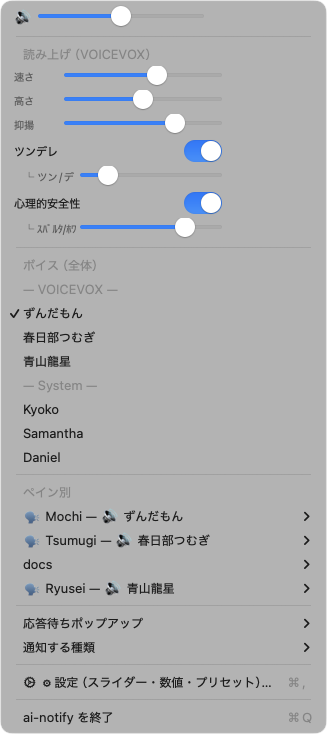
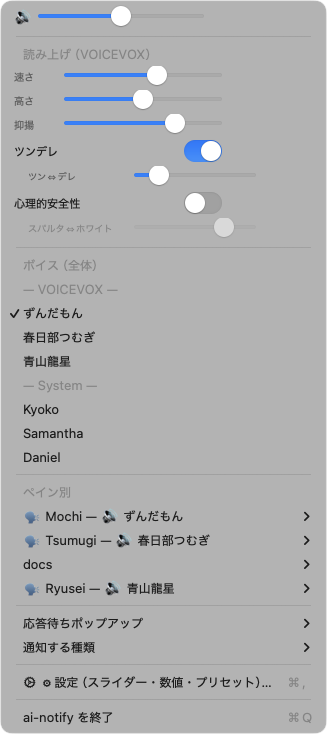
chore(release): 0.12.1

diff --git a/menubar/AiNotifyMenuBar.swift b/menubar/AiNotifyMenuBar.swift
@@ -740,16 +740,21 @@ final class AppDelegate: NSObject, NSApplicationDelegate {
 
     // A labeled blue level slider (0–1), laid out like the 速さ/高さ/抑揚 rows so
     // ツンデレ / 心理的安全性 sit with them, aligned and in the same blue.
-    private func levelRow(label: String, value: Double, action: Selector) -> NSMenuItem {
-        let row = NSView(frame: NSRect(x: 0, y: 0, width: 240, height: 24))
+    private func levelRow(label: String, value: Double, enabled: Bool = true, action: Selector) -> NSMenuItem {
+        let row = NSView(frame: NSRect(x: 0, y: 0, width: 270, height: 24))
+        // Indented sub-label under its toggle. Wide enough for the full text
+        // ("スパルタ⇔ホワイト") and dimmed further when the toggle is OFF.
         let cap = NSTextField(labelWithString: label)
-        cap.frame = NSRect(x: 12, y: 4, width: 64, height: 16)
-        cap.font = .systemFont(ofSize: 11); cap.textColor = .secondaryLabelColor
+        cap.frame = NSRect(x: 26, y: 4, width: 104, height: 16)
+        cap.font = .systemFont(ofSize: 10)
+        cap.textColor = enabled ? .secondaryLabelColor : .tertiaryLabelColor
+        cap.lineBreakMode = .byClipping
         // Plain NSSlider (same as the 速さ/高さ/抑揚 rows, which track + render blue
-        // correctly). A custom-cell slider was dropping the dragged value.
+        // correctly). isEnabled=false greys it out so an OFF toggle reads as off.
         let slider = NSSlider(value: value, minValue: 0, maxValue: 1, target: self, action: action)
-        slider.frame = NSRect(x: 78, y: 3, width: 146, height: 20)
+        slider.frame = NSRect(x: 132, y: 3, width: 126, height: 20)
         slider.isContinuous = false
+        slider.isEnabled = enabled
         row.addSubview(cap); row.addSubview(slider)
         let item = NSMenuItem(); item.view = row
         return item
@@ -819,9 +824,9 @@ final class AppDelegate: NSObject, NSApplicationDelegate {
         // ツンデレ slider is reversed (left=ツン, right=デレ) so the knob sits at 1 - level.
         // 心理的安全性 slider is direct (left=スパルタ/0, right=ホワイト/1, center=off).
         menu.addItem(toggleSwitchRow("ツンデレ", on: tsunOn, action: #selector(tsundereToggled(_:))))
-        menu.addItem(levelRow(label: "　└ ツン/デレ", value: 1 - tsunLevel, action: #selector(tsundereLevelDirect(_:))))
+        menu.addItem(levelRow(label: "ツン⇔デレ", value: 1 - tsunLevel, enabled: tsunOn, action: #selector(tsundereLevelDirect(_:))))
         menu.addItem(toggleSwitchRow("心理的安全性", on: warOn, action: #selector(warToggled(_:))))
-        menu.addItem(levelRow(label: "　└ ｽﾊﾟﾙﾀ/ﾎﾜｲﾄ", value: warLevel, action: #selector(warLevelChanged(_:))))
+        menu.addItem(levelRow(label: "スパルタ⇔ホワイト", value: warLevel, enabled: warOn, action: #selector(warLevelChanged(_:))))
         menu.addItem(.separator())
 
         if voices.isEmpty {